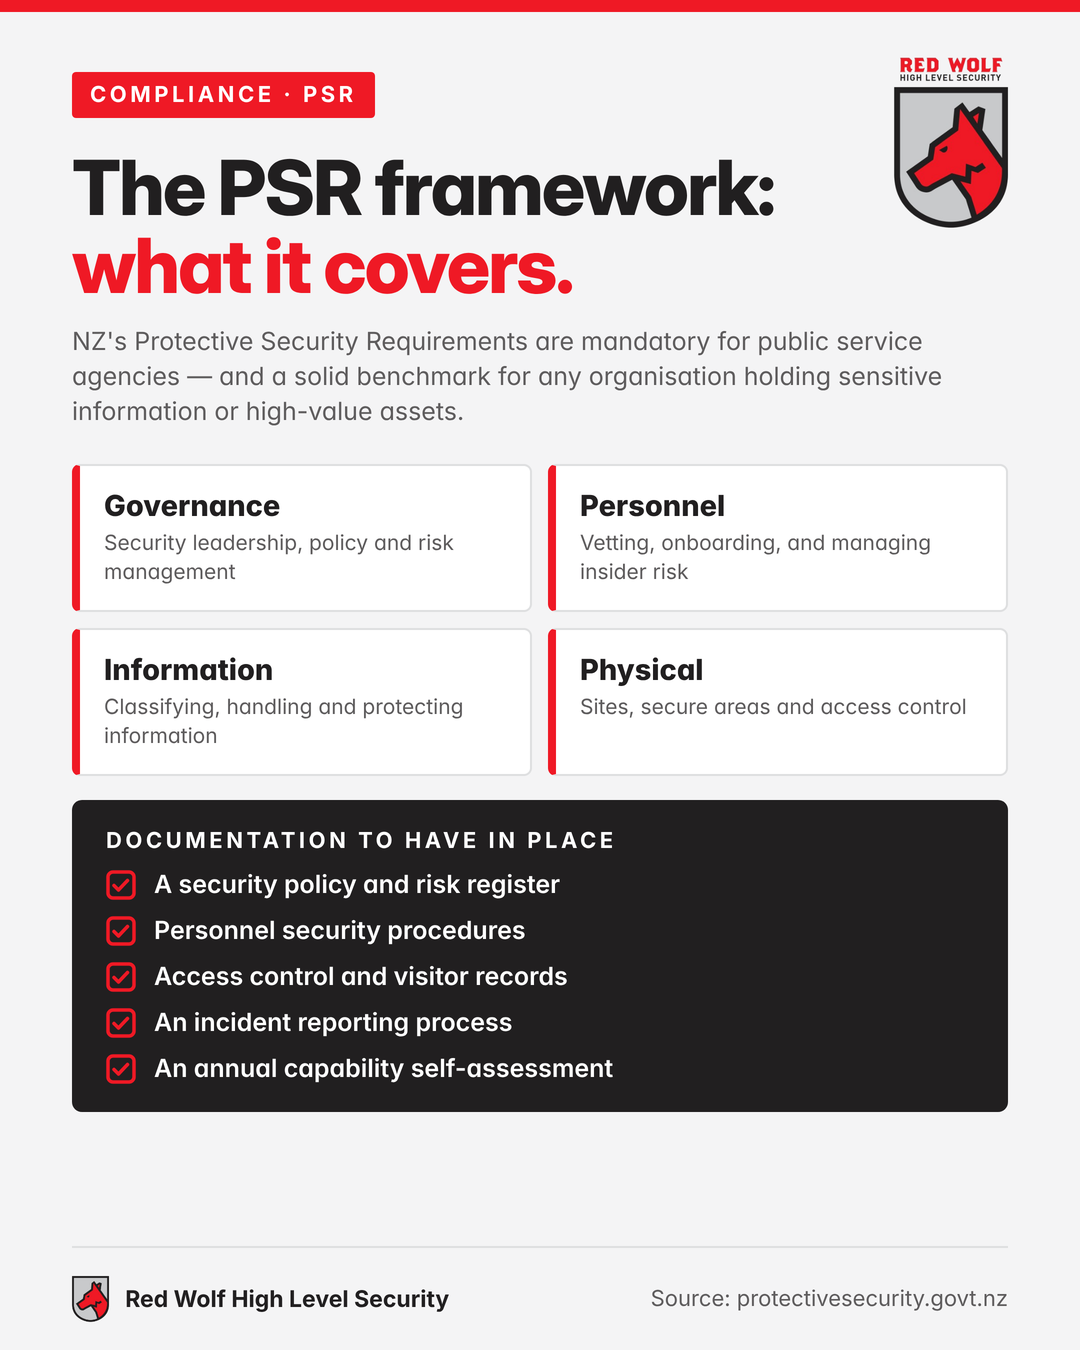
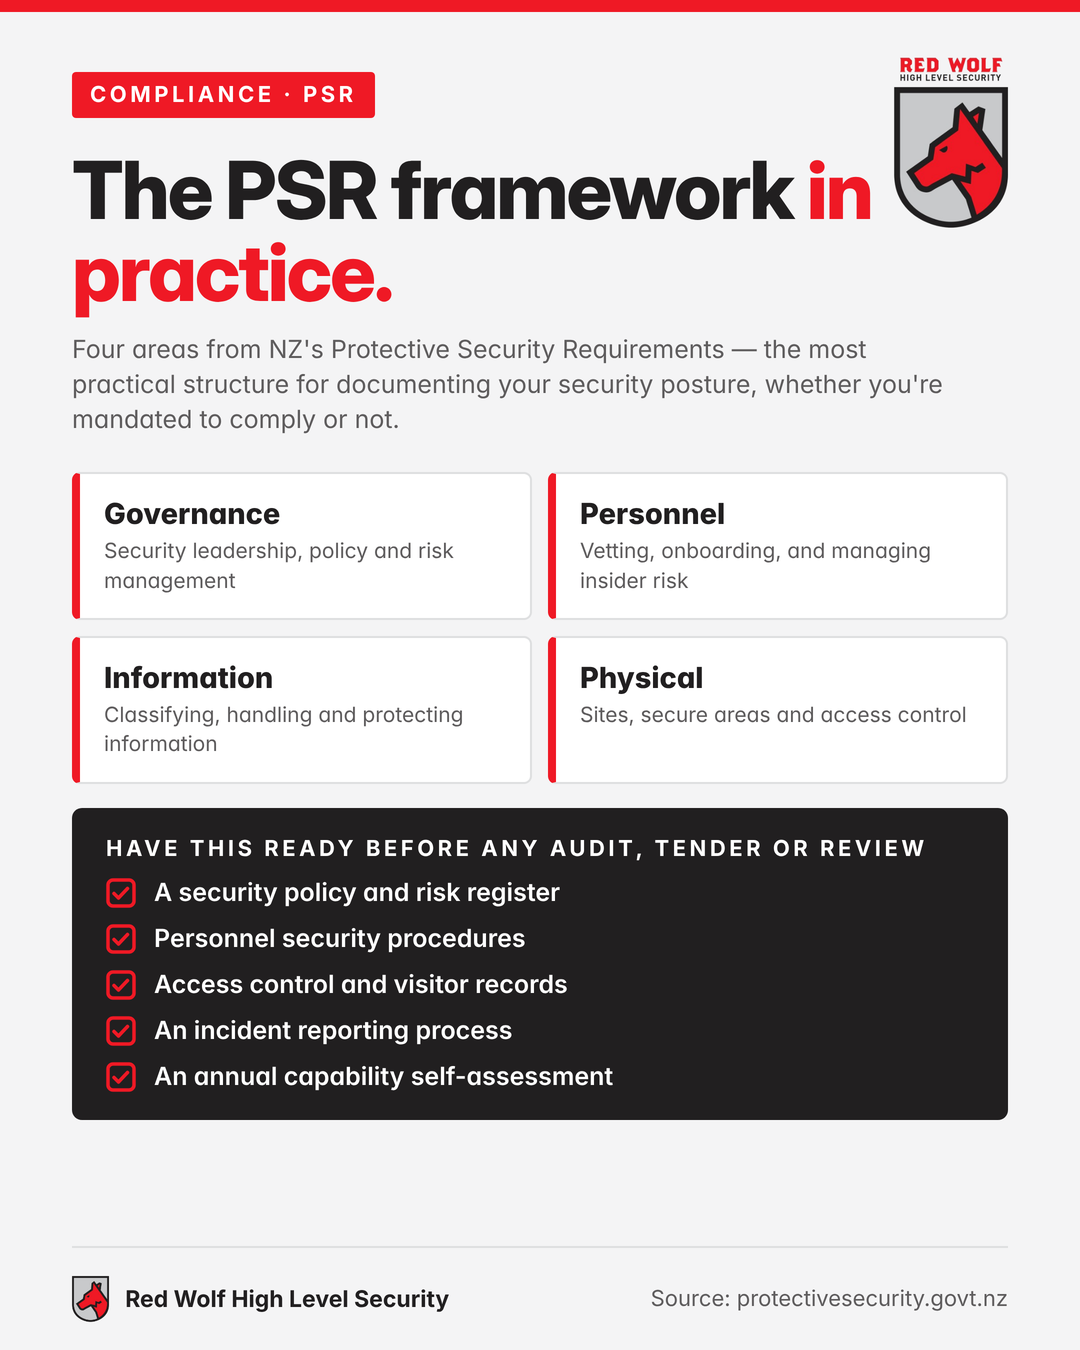
Re-evaluate week 41 media after persona re-angle
Relink all six week 41 media URLs (reset to missing placeholders),
update post-014 to the new framing, replace post-016 and post-018
graphics to match their new content, log in COULD/ASSET-2026Q3.md.

Claude-Session: https://claude.ai/code/session_01UfRZZ2k7A3sNFeQ6Lez9sn

diff --git a/COULD/ASSET-2026Q3.md b/COULD/ASSET-2026Q3.md
@@ -2,6 +2,22 @@ ASSET LOG
 
 ####### <!-- ANCHOR MARKER - ADD ALL NEW ASSET ENTRIES DIRECTLY BELOW THIS LINE -->
 
+## ASSET:redwolf 2026-10-13 22:20 -> Week 41 media re-evaluated after persona re-angle (commit 754ccf9)
+
+**Relinked:** commit 754ccf9 reset all week 41 media URLs to PLACEHOLDER.md files that do not exist (404). All six now point to real media again.
+
+**Kept (content unchanged):** post-013 https://raw.githubusercontent.com/jayreck996/md-redwolf/main/SHOULD/media/2026Q3/post-013-security-survey.png · post-015 https://raw.githubusercontent.com/jayreck996/md-redwolf/main/SHOULD/media/2026Q3/post-015-nzsa-membership.png · post-017 https://raw.githubusercontent.com/jayreck996/md-redwolf/main/SHOULD/media/2026Q3/post-017-quality-process.png (media text says "ISO 9001" but the graphic carries no ISO badge; certification still unverified).
+
+**Updated:** post-014 https://raw.githubusercontent.com/jayreck996/md-redwolf/main/SHOULD/media/2026Q3/post-014-psr-framework.png — headline "The PSR framework in practice", checklist relabelled "Have this ready before any audit, tender or review". Earlier copy issues (critical infrastructure mandate, "what has been updated") are resolved by the new description.
+
+**Replaced:**
+- post-016 https://raw.githubusercontent.com/jayreck996/md-redwolf/main/SHOULD/media/2026Q3/post-016-project-delivery.png — values card no longer fit the new angle; new graphic shows four client commitments (one point of contact, milestones up front, proactive updates, formal close-out). Removed post-016-red-wolf-values.png.
+- post-018 https://raw.githubusercontent.com/jayreck996/md-redwolf/main/SHOULD/media/2026Q3/post-018-year-end-decisions.png — three decisions: IT/physical convergence, IQP paperwork for access-controlled doors (specified system SS 3/2, building WOF), footage retention policy (Privacy Act, principle 9). Removed post-018-three-trends.png.
+
+**Sources checked:** building.govt.nz (IQP inspection, Form 12A, annual BWoF); council SS 3/2 access controlled doors forms; privacy.org.nz principle 9 (retention).
+
+**Verify:** post-016 commitments must match how Red Wolf actually runs projects. post-018 copy says AI cameras create "new liability" — keep it framed as a privacy obligation, not legal advice.
+
 ## ASSET:redwolf 2026-10-13 21:55 -> Week 41 media generated (post-013 to post-018)
 
 **Media (SHOULD/media/2026Q3/, same brand system, 1080x1350):**
